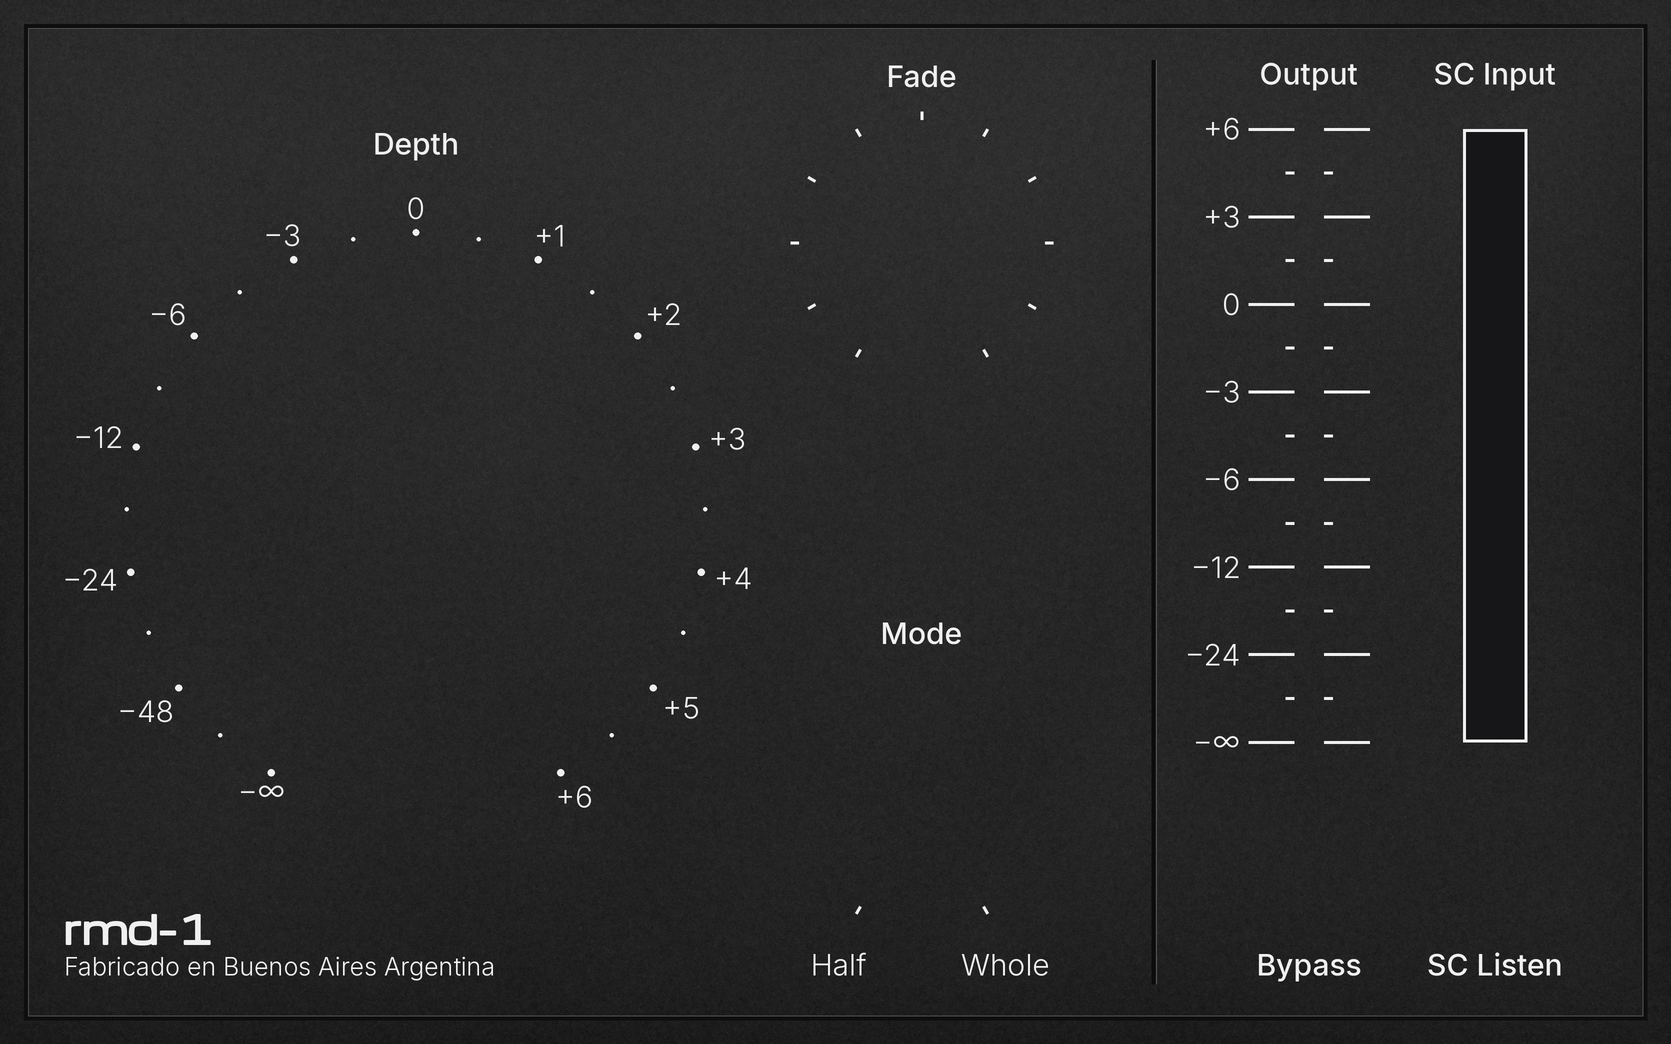
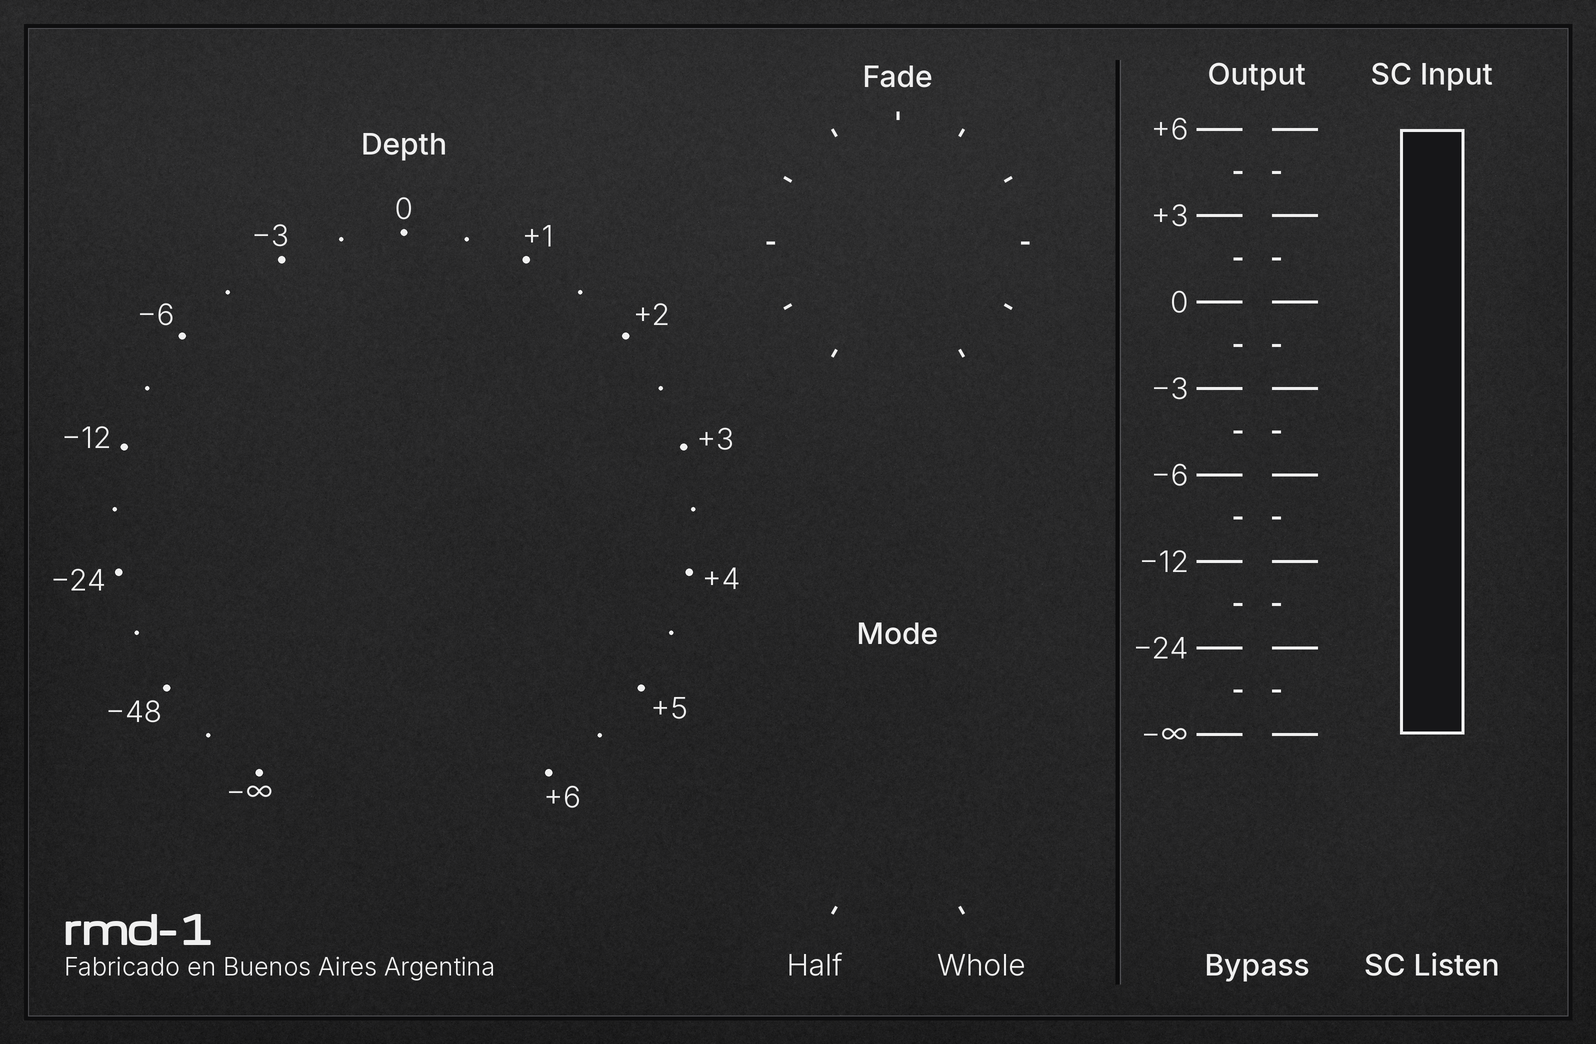
Distancias iguales (105) entre bordes, perillas, divisoria y botones; ventana mas angosta; fader/vumetro 8 mas cortos [skip ci]
Claude-Session: https://claude.ai/code/session_01LmYTuHAKQSU8qhR6nNkVAi

diff --git a/Source/PluginEditor.cpp b/Source/PluginEditor.cpp
@@ -6,14 +6,14 @@ using namespace juce;
 namespace
 {
     // ---- geometria en unidades de diseno (ventana 1671 x 1044) ----
-    constexpr float kDepthCx = 416.0f, kDepthCy = 522.0f, kDepthR = 275.0f;
-    constexpr float kFadeCx = 922.0f, kFadeCy = 243.0f, kFadeR = 114.0f;
-    constexpr float kModeCx = 922.0f, kModeCy = 800.0f, kModeR = 114.0f;
+    constexpr float kDepthCx = 404.0f, kDepthCy = 522.0f, kDepthR = 275.0f;
+    constexpr float kFadeCx = 898.0f, kFadeCy = 243.0f, kFadeR = 114.0f;
+    constexpr float kModeCx = 898.0f, kModeCy = 800.0f, kModeR = 114.0f;
     constexpr float kDefaultScale = 321.0f / 996.0f;               // tamano de la ventana: 321 de alto (y 523 de ancho)
-    constexpr float kArtW = 1623.0f, kArtH = 996.0f;              // arte ya recortado
+    constexpr float kArtW = 1548.0f, kArtH = 996.0f;              // arte ya recortado
     constexpr int   kCrop = 24;                                   // el recorte de la ventana: se corta por la linea oscura del marco
-    constexpr int   kFaderX = 1309, kTop = 129, kBottom = 742;       // pista del fader: de y=129 (+6 dB) a y=742 (-inf); a 43.5 del valor de abajo, igual que las perillas
-    constexpr float kBtnCy = 883.75f, kBtnHit = 38.0f;               // centro vertical de los botones y radio (cuadrado) donde responden al clic
+    constexpr int   kFaderX = 1257, kTop = 129, kBottom = 734;       // pista del fader: de y=129 (+6 dB) a y=742 (-inf); a 43.5 del valor de abajo, igual que las perillas
+    constexpr float kBtnCy = 879.75f, kBtnHit = 38.0f;               // centro vertical de los botones y radio (cuadrado) donde responden al clic
     constexpr int   kAtlasCols = 12;                                  // un cuadro del puntero cada 2 grados (151 cuadros, -150..150)
     const Colour kText (240, 240, 240);    // texto sobre el fondo oscuro
 
@@ -24,7 +24,7 @@ namespace
     }
 
     constexpr float kMeterPitch = (float) (kBottom - 4 - (kTop + 4)) / 77.0f;   // alto de cada barrita del vumetro (77 en total = 11 por cada tramo de la escala del fader, 10 pixeles retina cada una); la de arriba queda separada del marco igual que la de abajo
-    constexpr float kValueBase = 805.0f;                                  // linea de base de los valores bajo el fader y el vumetro (misma distancia que el valor bajo Depth)
+    constexpr float kValueBase = 797.0f;                                  // linea de base de los valores bajo el fader y el vumetro (misma distancia que el valor bajo Depth)
 
     Image img (const void* d, int n) { return ImageCache::getFromMemory (d, n); }
 
@@ -269,13 +269,13 @@ namespace
     {
         ModeKnob (RangedAudioParameter& p, Image h, Image w) : Ctl (p), halfImg (h), wholeImg (w)
         {
-            setDesign ({ 783, 661, 279, 279 });
+            setDesign ({ 759, 661, 279, 279 });
         }
         bool hitTest (int x, int y) override { return designOf (x, y).getDistanceFrom ({ kModeCx, kModeCy }) <= kModeR; }
         void paint (Graphics& g) override
         {
             beginDesign (g);
-            g.drawImageAt (norm() >= 0.5f ? wholeImg : halfImg, 785, 663);
+            g.drawImageAt (norm() >= 0.5f ? wholeImg : halfImg, 761, 663);
         }
         void setWhole (bool w) { att.setValueAsCompleteGesture (w ? 1.0f : 0.0f); }
         // clic y arrastre: hacia la derecha/abajo = Whole, hacia la izquierda/arriba = Half (un clic solo no cambia nada)
@@ -306,7 +306,7 @@ namespace
               slot (img (BinaryData::ui_fader_slot_png, BinaryData::ui_fader_slot_pngSize)),
               capImg (img (BinaryData::ui_fader_cap_png, BinaryData::ui_fader_cap_pngSize)), tf (tf_)
         {
-            setDesign ({ 1229, 101, 160, 736 });
+            setDesign ({ 1177, 101, 160, 736 });
             ed.setJustification (Justification::centred);
             ed.setSelectAllWhenFocused (true);
             ed.setInputRestrictions (6);   // el valor mas largo posible es -60.00
@@ -387,7 +387,7 @@ namespace
         void paint (Graphics& g) override
         {
             beginDesign (g);
-            g.drawImageAt (norm() >= 0.5f ? onImg : offImg, centreX - 60, 824);
+            g.drawImageAt (norm() >= 0.5f ? onImg : offImg, centreX - 60, 820);
         }
         // solo responde sobre el boton (no sobre el resplandor que lo rodea)
         bool hitTest (int x, int y) override
@@ -405,7 +405,7 @@ namespace
 struct ValueOverlay : Component
 {
     explicit ValueOverlay (Typeface::Ptr t) : tf (t) { setInterceptsMouseClicks (false, false); }
-    static Rectangle<float> meterZone() { return { 1466.0f, 121.0f, 60.0f, 621.0f }; }   // en unidades de diseno
+    static Rectangle<float> meterZone() { return { 1403.0f, 121.0f, 60.0f, 613.0f }; }   // en unidades de diseno
 
     void paint (Graphics& g) override
     {
@@ -414,11 +414,11 @@ struct ValueOverlay : Component
             g.addTransform (AffineTransform::translation ((float) -kCrop, (float) -kCrop).scaled (scale));
             g.setColour (kText);
             drawLightText (g, faderValText, tf, 30.0f, (float) kFaderX, kValueBase);
-            drawLightText (g, peakValText, tf, 30.0f, 1495.0f, kValueBase);
+            drawLightText (g, peakValText, tf, 30.0f, 1432.0f, kValueBase);
         }
     }
     String faderValText = "0.00 dB", peakValText = "-inf dB";
-    Rectangle<int> valuesArea() const { return { roundToInt ((1225.0f - (float) kCrop) * scale), roundToInt ((769.0f - (float) kCrop) * scale), roundToInt (359.0f * scale), roundToInt (50.0f * scale) }; }
+    Rectangle<int> valuesArea() const { return { roundToInt ((1173.0f - (float) kCrop) * scale), roundToInt ((761.0f - (float) kCrop) * scale), roundToInt (330.0f * scale), roundToInt (50.0f * scale) }; }
     float peakDb = -100.0f; float scale = kDefaultScale; Typeface::Ptr tf;
 };
 
@@ -431,18 +431,18 @@ struct PhantomAsymEditor::Impl
                  img (BinaryData::ui_depth_body_png, BinaryData::ui_depth_body_pngSize),
                  img (BinaryData::ui_depth_ptr_png, BinaryData::ui_depth_ptr_pngSize),
                  kDepthCx, kDepthCy, kDepthR, (0.475f + 0.85f) / 2.0f * kDepthR, 106,
-                 { 69, 175, 694, 707 }, { 85, 191 }, 863, 30.0f, true, tfLight),
+                 { 57, 175, 694, 707 }, { 73, 191 }, 863, 30.0f, true, tfLight),
           fade (*p.apvts.getParameter ("fade"),
                img (BinaryData::ui_fade_body_png, BinaryData::ui_fade_body_pngSize),
                img (BinaryData::ui_fade_ptr_png, BinaryData::ui_fade_ptr_pngSize),
                kFadeCx, kFadeCy, kFadeR, (0.40f / 0.775f + 1.1f) / 2.0f * kFadeR, 71,
-               { 782, 101, 281, 336 }, { 785, 106 }, 424, 30.0f, false, tfLight, 10.0f),
+               { 758, 101, 281, 336 }, { 761, 106 }, 424, 30.0f, false, tfLight, 10.0f),
           mode (*p.apvts.getParameter ("mode"),
                 img (BinaryData::ui_mode_half_png, BinaryData::ui_mode_half_pngSize),
                 img (BinaryData::ui_mode_whole_png, BinaryData::ui_mode_whole_pngSize)),
           fader (*p.apvts.getParameter ("output"), tfLight),
-          bypass (*p.apvts.getParameter ("bypass"), 1309),
-          listen (*p.apvts.getParameter ("listen"), 1495),
+          bypass (*p.apvts.getParameter ("bypass"), 1257),
+          listen (*p.apvts.getParameter ("listen"), 1432),
           values (tfLight)
     {}
 
@@ -497,14 +497,14 @@ void PhantomAsymEditor::paint (Graphics& g)
         if (i < lit)
         {
             g.setColour (blue ? Colour (62, 128, 245) : Colour (170, 170, 172));
-            g.fillRect (1472.0f, y, 46.0f, kBar);
+            g.fillRect (1409.0f, y, 46.0f, kBar);
             g.setColour (blue ? Colour (150, 200, 255) : Colour (214, 214, 216));
-            g.fillRect (1472.0f, y, 46.0f, kHi);
+            g.fillRect (1409.0f, y, 46.0f, kHi);
         }
         else
         {
             g.setColour (Colour (46, 46, 48));
-            g.fillRect (1472.0f, y, 46.0f, kBar);
+            g.fillRect (1409.0f, y, 46.0f, kBar);
         }
     }
 }
@@ -550,7 +550,7 @@ void PhantomAsymEditor::mouseDown (const MouseEvent& e)
     const auto p = e.position / scale + Point<float> ((float) kCrop, (float) kCrop);
     if (p.y >= 936.0f && p.y <= 991.0f)
     {
-        if (p.x >= 799.0f && p.x <= 879.0f)       impl->mode.setWhole (false);
-        else if (p.x >= 965.0f && p.x <= 1045.0f) impl->mode.setWhole (true);
+        if (p.x >= 775.0f && p.x <= 855.0f)       impl->mode.setWhole (false);
+        else if (p.x >= 941.0f && p.x <= 1021.0f) impl->mode.setWhole (true);
     }
 }

diff --git a/UI_definitiva/generadores/bg_gen.py b/UI_definitiva/generadores/bg_gen.py
@@ -1,6 +1,6 @@
 import math
 from PIL import Image, ImageDraw, ImageFont
-S=2; M=105; W=1671; H=1044; divX=1153   # ventana 523 x 321 (arte 1671 x 1044 con el marco de 24 unidades)
+S=2; M=105; W=1596; H=1044; divX=1117   # ventana 523 x 321 (arte 1671 x 1044 con el marco de 24 unidades)
 FM=lambda s: ImageFont.truetype('fonts2/InterMedium.ttf',int(s*S))    # Inter Medium: titulos y botones
 FL=lambda s: ImageFont.truetype('fonts2/InterLight.ttf',int(s*S))     # Inter Light: escalas, valores, Half / Whole y la frase de abajo
 import numpy as np
@@ -30,7 +30,7 @@ def box(x0,y0,x1,y1,fill=FILL,ell=False):
     (d.ellipse if ell else d.rectangle)(sc(x0,y0,x1,y1),outline=G,width=3*S,fill=fill)
 def txt(x,y,t,f,a='mm',c=G): d.text((x*S,y*S),t,font=f,fill=c,anchor=a)
 d.rectangle(sc(24,24,W-24,H-24),outline=(14,14,15),width=4*S); d.rectangle(sc(28,28,W-28,H-28),outline=(78,78,82),width=1*S)
-pt=24+M; db=pt+652; fb=742   # fb = fondo de la escala del fader (-inf)
+pt=24+M; db=pt+652; fb=734   # fb = fondo de la escala del fader (-inf)
 A13=[-150+25*i for i in range(13)]   # Depth: recorrido de 300 grados, 13 marcas grandes cada 25
 A11=[-150+30*i for i in range(11)]   # Fade: recorrido de 300 grados, el 20 % y el 80 % quedan justo a 180 grados entre si (a -90 y +90)
 def aa_ticks(cx,cy,r0,r1,angles,w=3.0,K=16):   # ticks radiales con borde suave exacto (se dibujan 16x mas grandes y se reducen), asi todos pesan igual
@@ -41,10 +41,10 @@ def aa_ticks(cx,cy,r0,r1,angles,w=3.0,K=16):   # ticks radiales con borde suave 
         md.polygon([(x*K,y*K) for x,y in P],fill=255)
     m=m.resize((sz*S,sz*S),Image.BOX); ox,oy=int((cx-pad)*S),int((cy-pad)*S)
     img.paste(Image.new('RGB',m.size,G),(ox,oy),m)
-aa_ticks(922,243,114+9,114+9+8.5,A11)   # Fade: 11 ticks (0..100 %, de a 10, cada 30 grados), 8,5 de largo y 3 de ancho
+aa_ticks(898,243,114+9,114+9+8.5,A11)   # Fade: 11 ticks (0..100 %, de a 10, cada 30 grados), 8,5 de largo y 3 de ancho
 d.line(sc(divX,60,divX,H-60),fill=(12,12,13),width=4*S); d.line(sc(divX+3,60,divX+3,H-60),fill=(84,84,88),width=1*S)
-fx=1309
-box(1463,pt,1527,fb)
+fx=1257
+box(1400,pt,1464,fb)
 for i in range(8):   # marcas del fader a ambos lados (+6, +3, 0, -3, -6, -12, -24, -inf)
     y=pt+(fb-pt)*i/7
     d.line(sc(fx-60.5,y,fx-15,y),fill=G,width=int(3*S)); d.line(sc(fx+15,y,fx+60.5,y),fill=G,width=int(3*S))   # largas, iguales a los dos lados (a la izquierda con el numero), desde el recorrido
@@ -62,10 +62,10 @@ def ctitle(x,t,ymid):   # titulo con la tinta centrada en ymid (vertical) y en x
     bb=d.textbbox((0,0),t,font=L,anchor='ls'); base=ymid-(bb[1]+bb[3])/(2*S); bx=_ink(t,L,'ms')
     d.text((x*S-(bx[0]+bx[2])/2,base*S),t,font=L,fill=G,anchor='ms'); print(t,'tinta',round(base+bb[1]/S,1),'->',round(base+bb[3]/S,1))
 YM=(24+pt)/2   # centro entre el borde interno de la ventana (y=24) y el tope de la perilla / fader
-ctitle(416,'Depth',147)
-ctitle(922,'Fade',YM)
-ctitle(922,'Mode',633.5)
-ctitle(fx,'Output',YM); ctitle(1495,'SC Input',YM)
+ctitle(404,'Depth',147)
+ctitle(898,'Fade',YM)
+ctitle(898,'Mode',633.5)
+ctitle(fx,'Output',YM); ctitle(1432,'SC Input',YM)
 bf=FM(30); GAP_T=10
 bb=d.textbbox((0,0),'Input Listen',font=bf,anchor='ls'); th=(-bb[1])/S; desc=bb[3]/S
 unit=64+GAP_T+th+desc; gap=((H-24)-db-unit)/2
@@ -73,24 +73,24 @@ by0=db+gap; by1=by0+64
 _bo=d.textbbox((0,0),'Output',font=L,anchor='ls'); _top=YM-(_bo[1]+_bo[3])/(2*S)+_bo[1]/S-24   # distancia del techo de la tinta de Output al borde superior del plugin
 _bb2=d.textbbox((0,0),'Bypass',font=bf,anchor='ls'); base=(H-24-_top)-_bb2[3]/S   # el fondo de la tinta de Bypass queda a esa misma distancia del borde inferior
 print('borde: arriba',round(_top,1),'abajo',round(H-24-(base+_bb2[3]/S),1))
-for cx,name in ((fx,"Bypass"),(1495,"SC Listen")):
+for cx,name in ((fx,"Bypass"),(1432,"SC Listen")):
     txt(cx,base,name,bf,'ms')
 BH=base   # linea de base de Half / Whole = la de los valores de abajo
 HW=FL(30)
 _r0=114+5; _y0=800+_r0*math.cos(math.radians(30)); _ttop=BH+d.textbbox((0,0),'Half',font=HW,anchor='ls')[1]/S   # techo de Half / Whole
 _tt=(_y0+34+_ttop)/2   # donde termina la linea: justo arriba del texto (igual que antes)
-XH=922-(_r0*math.sin(math.radians(30))+(_tt-_y0)*math.tan(math.radians(30)))   # la linea sigue el angulo del tick hasta _tt; Half queda centrado ahi (Whole es simetrico)
-txt(XH,BH,'Half',HW,'ms'); txt(1844-XH,BH,'Whole',HW,'ms')
+XH=898-(_r0*math.sin(math.radians(30))+(_tt-_y0)*math.tan(math.radians(30)))   # la linea sigue el angulo del tick hasta _tt; Half queda centrado ahi (Whole es simetrico)
+txt(XH,BH,'Half',HW,'ms'); txt(1796-XH,BH,'Whole',HW,'ms')
 # lineas de Mode: salen del borde de la perilla en diagonal (+-30 grados desde abajo, como el puntero), se doblan y bajan hasta el punto medio entre el quiebre y el texto; 3 de ancho, mismo color y borde suave que los ticks de Fade
 def aa_path(P,w=3.0,K=16):
     xs=[p[0] for p in P]; ys=[p[1] for p in P]; x0,y0=int(min(xs))-6,int(min(ys))-6; x1,y1=int(max(xs))+6,int(max(ys))+6
     m=Image.new('L',((x1-x0)*K*S,(y1-y0)*K*S),0); ImageDraw.Draw(m).line([((px-x0)*K*S,(py-y0)*K*S) for px,py in P],fill=255,width=int(w*K*S),joint='curve')
     m=m.resize(((x1-x0)*S,(y1-y0)*S),Image.BOX); img.paste(Image.new('RGB',m.size,G),(x0*S,y0*S),m)
 _cy=800; _r0=114+5; _ttop=BH+d.textbbox((0,0),'Half',font=HW,anchor='ls')[1]/S   # techo de Half / Whole
-aa_ticks(922,800,114+9,114+9+8.5,[-150,150])   # Mode: los mismos ticks que Fade (8,5 de largo, 3 de ancho) en Half y Whole
+aa_ticks(898,800,114+9,114+9+8.5,[-150,150])   # Mode: los mismos ticks que Fade (8,5 de largo, 3 de ancho) en Half y Whole
 # escala de Depth estilo referencia: puntitos + numeros (0 dB al centro, +6 a la derecha lineal, mitad izquierda logaritmica)
 LAB=['\u2212\u221e','\u221248','\u221224','\u221212','\u22126','\u22123','0','+1','+2','+3','+4','+5','+6']
-cx_,cy_,R_=416,522,275; fs=FL(30)
+cx_,cy_,R_=404,522,275; fs=FL(30)
 for i,a in enumerate(A13):
     t=math.radians(a)
     rd=R_+14.5; x=cx_+rd*math.sin(t); y=cy_-rd*math.cos(t); rr_=3.4
